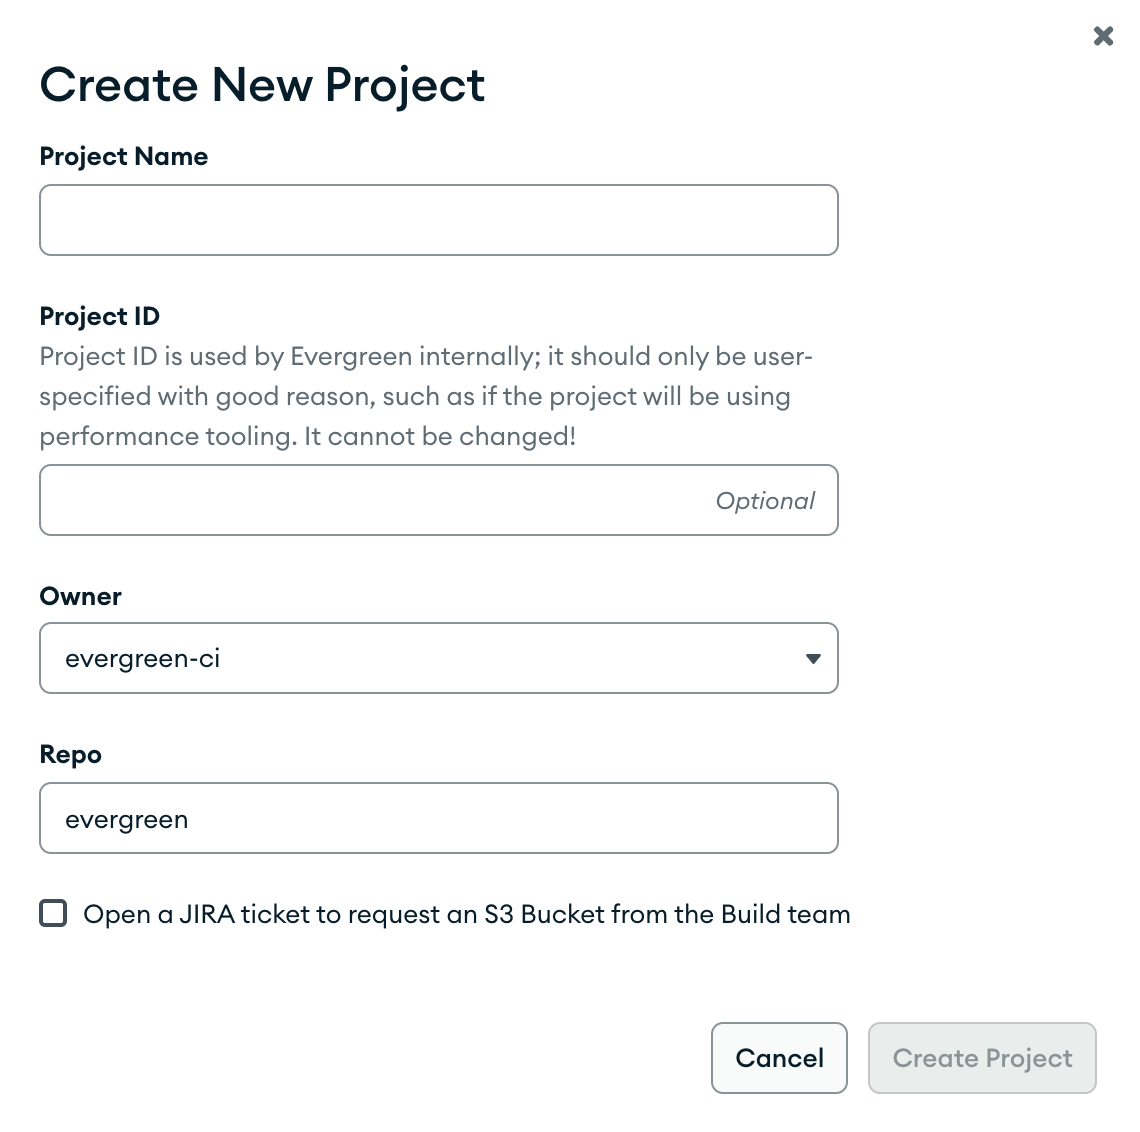
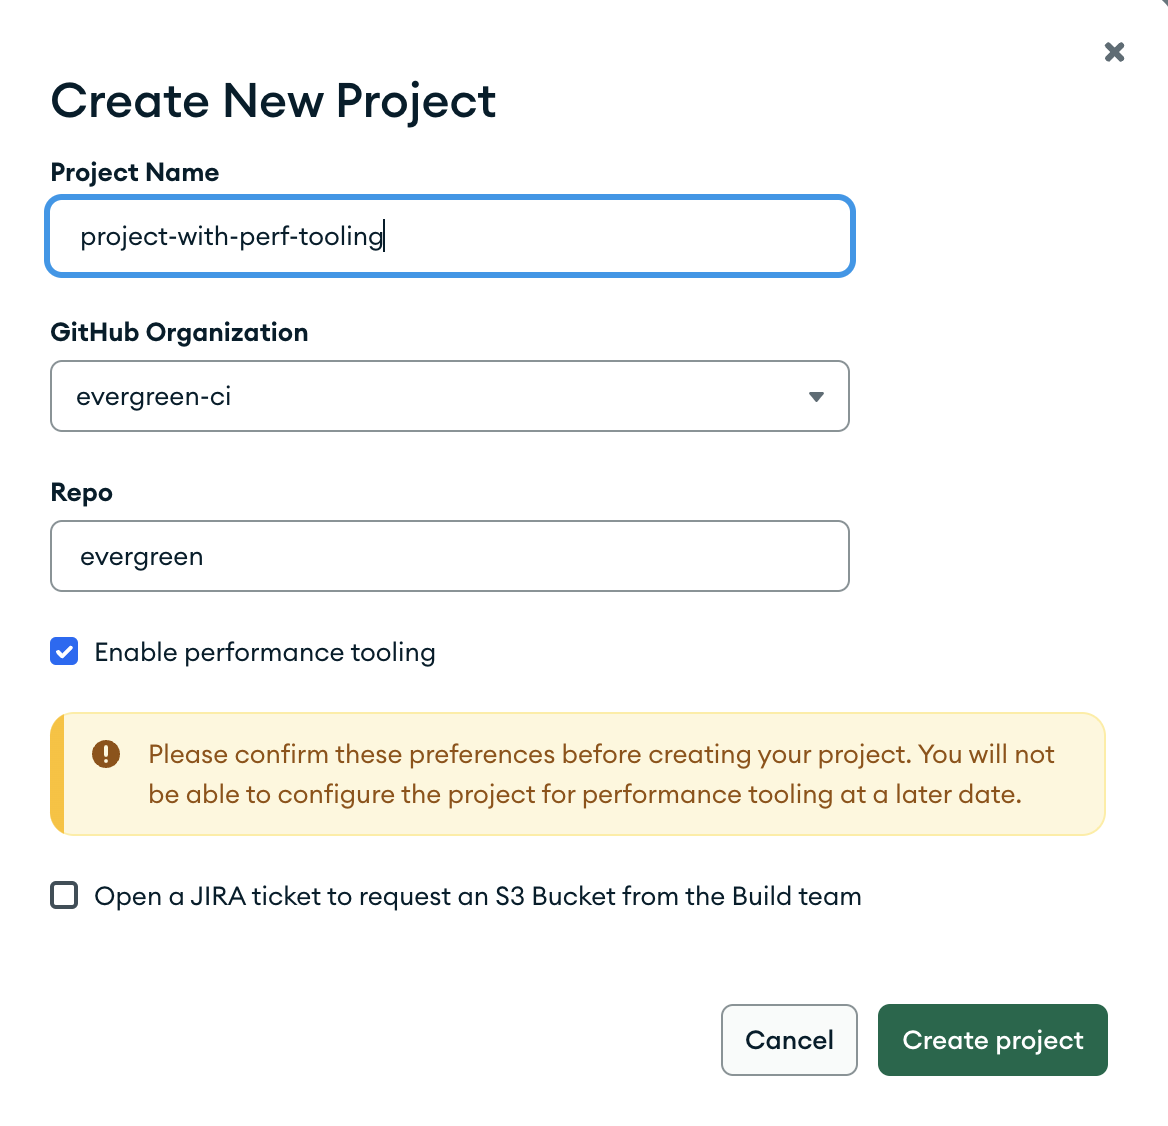
update modal

diff --git a/docs/Project-Configuration/Create-a-Project.md b/docs/Project-Configuration/Create-a-Project.md
@@ -22,7 +22,7 @@ If you do not see the `New Project` button on the [project settings page](https:
 1. Visit the projects page in the new UI https://spruce.mongodb.com/projects/.
 2. Click New Project. If you want to copy the current project, click Duplicate Current Project. Otherwise, click Create New Project.
 3. Enter the project name, repo org ("Owner"), and repo name ("Repo"). Note that only creating projects that track MongoDB owned organizations is supported.
-4. **Do not set a Project ID unless you want to use the performance plugin -- if you are doing this, set this to be equal to the project name.**
+4. **If you want to use the performance plugin, you need to check this box now.** In this case also, the identifier cannot be modified, so please choose carefully.
 5. If this project needs an S3 bucket, click the check mark to open a JIRA ticket. (You should see the JIRA ticket under "reported by me.")
 6. Click "Create New Project".
 
